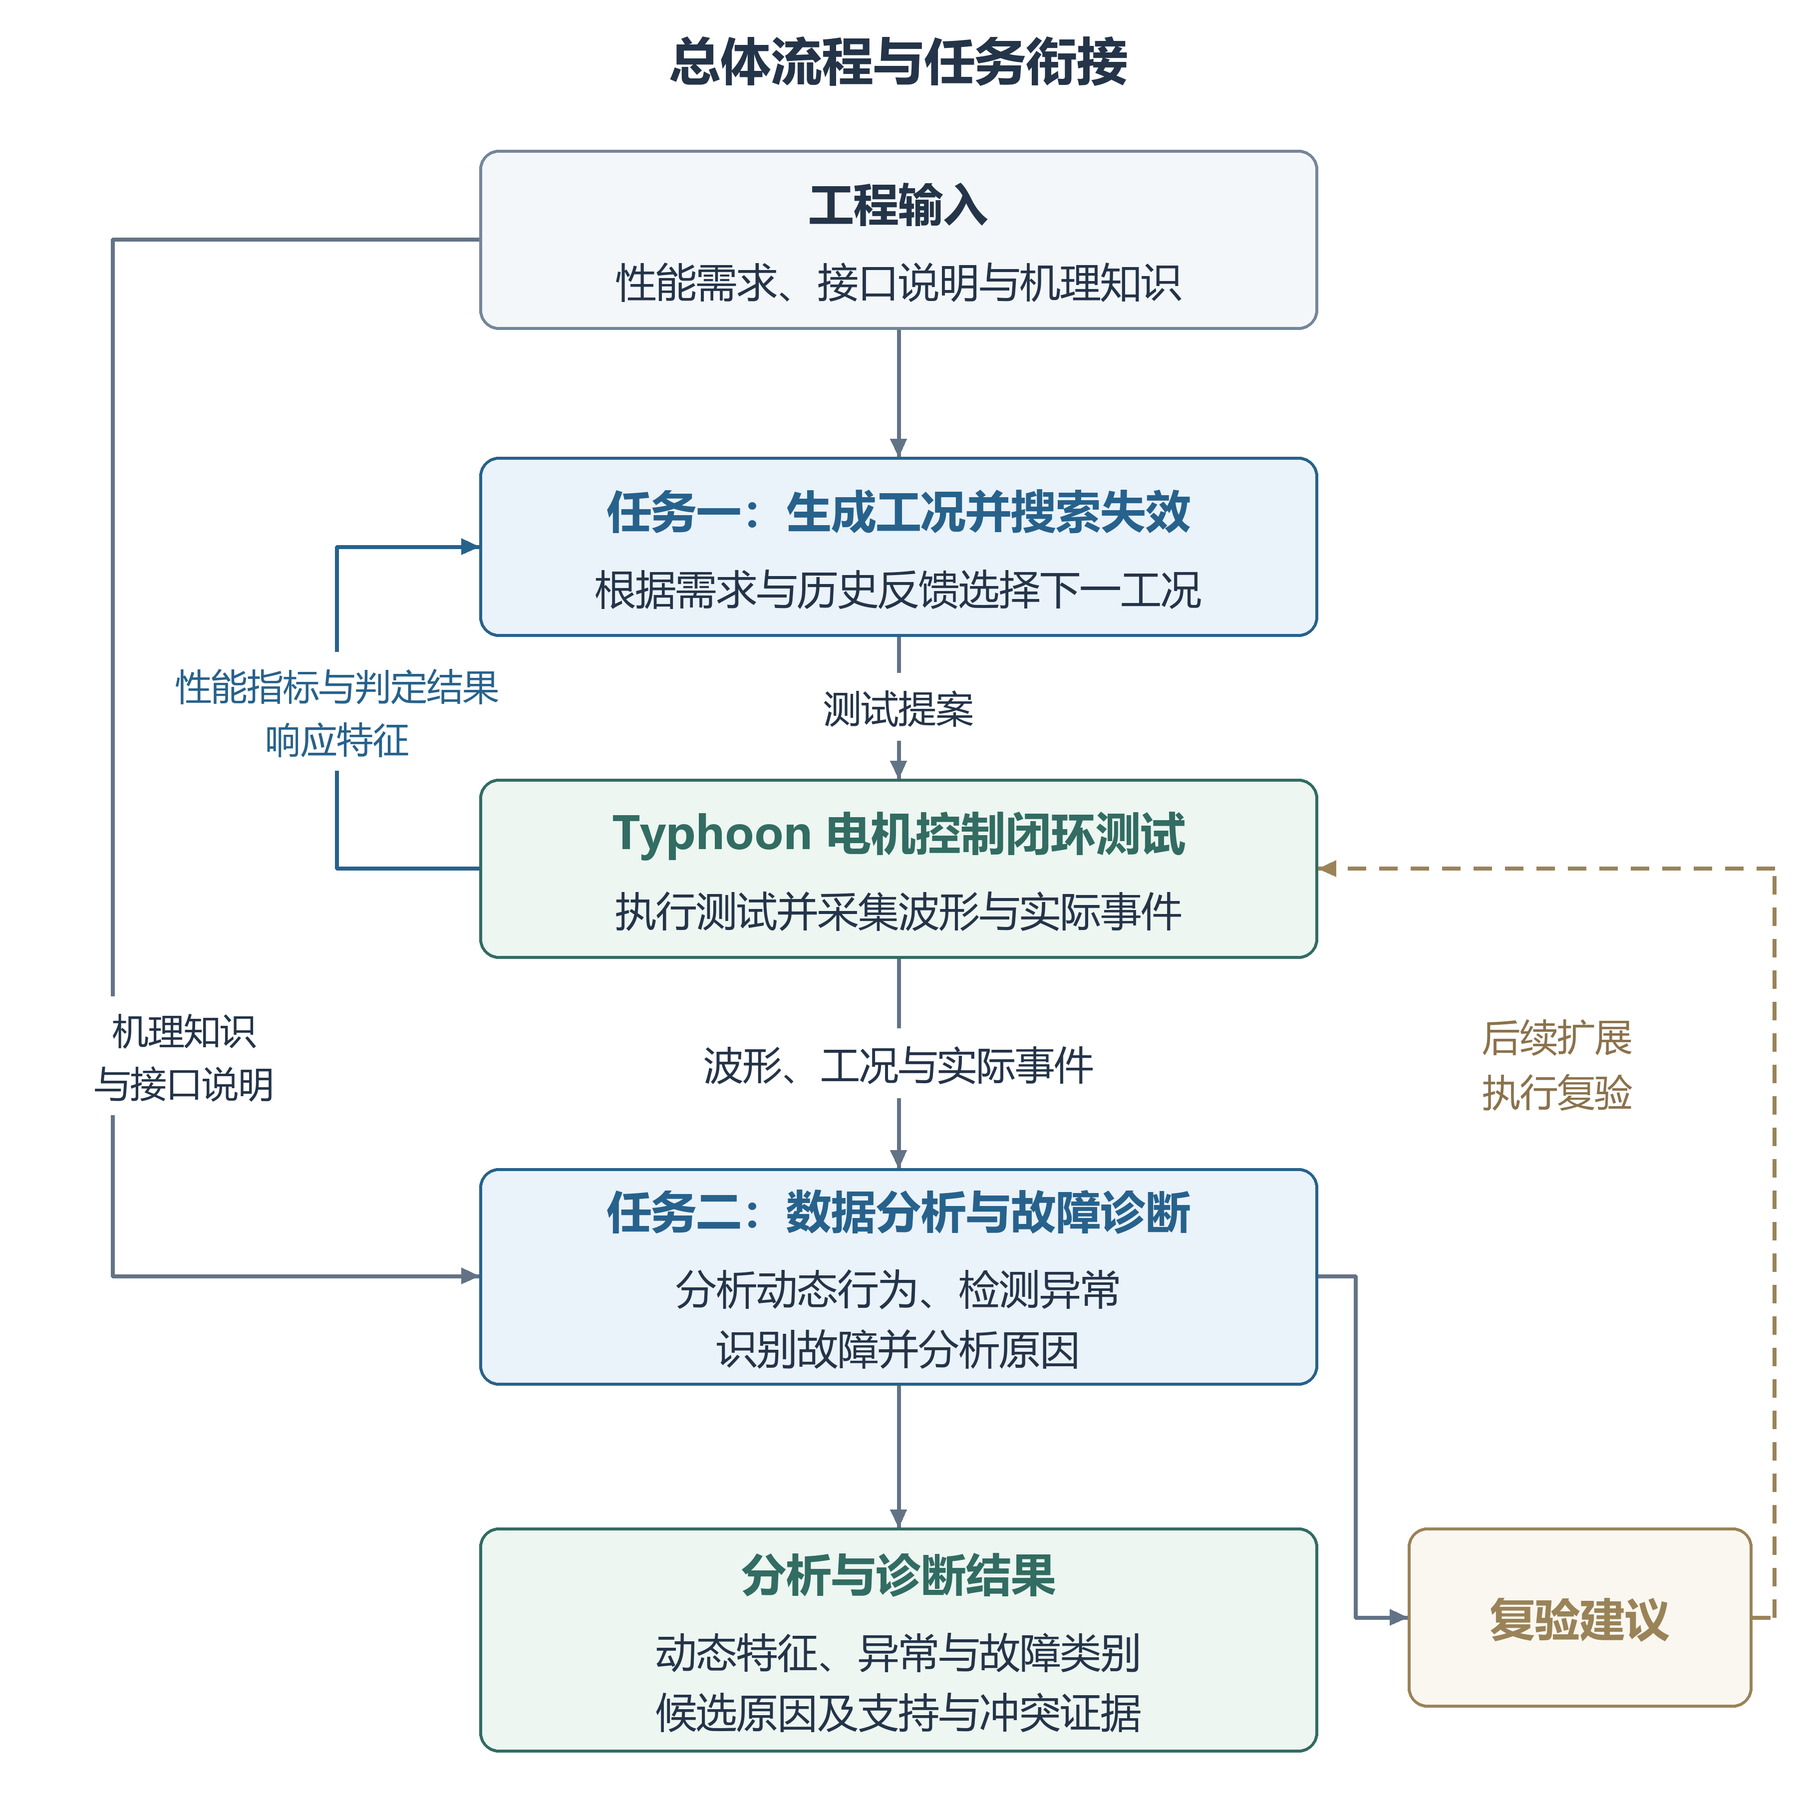
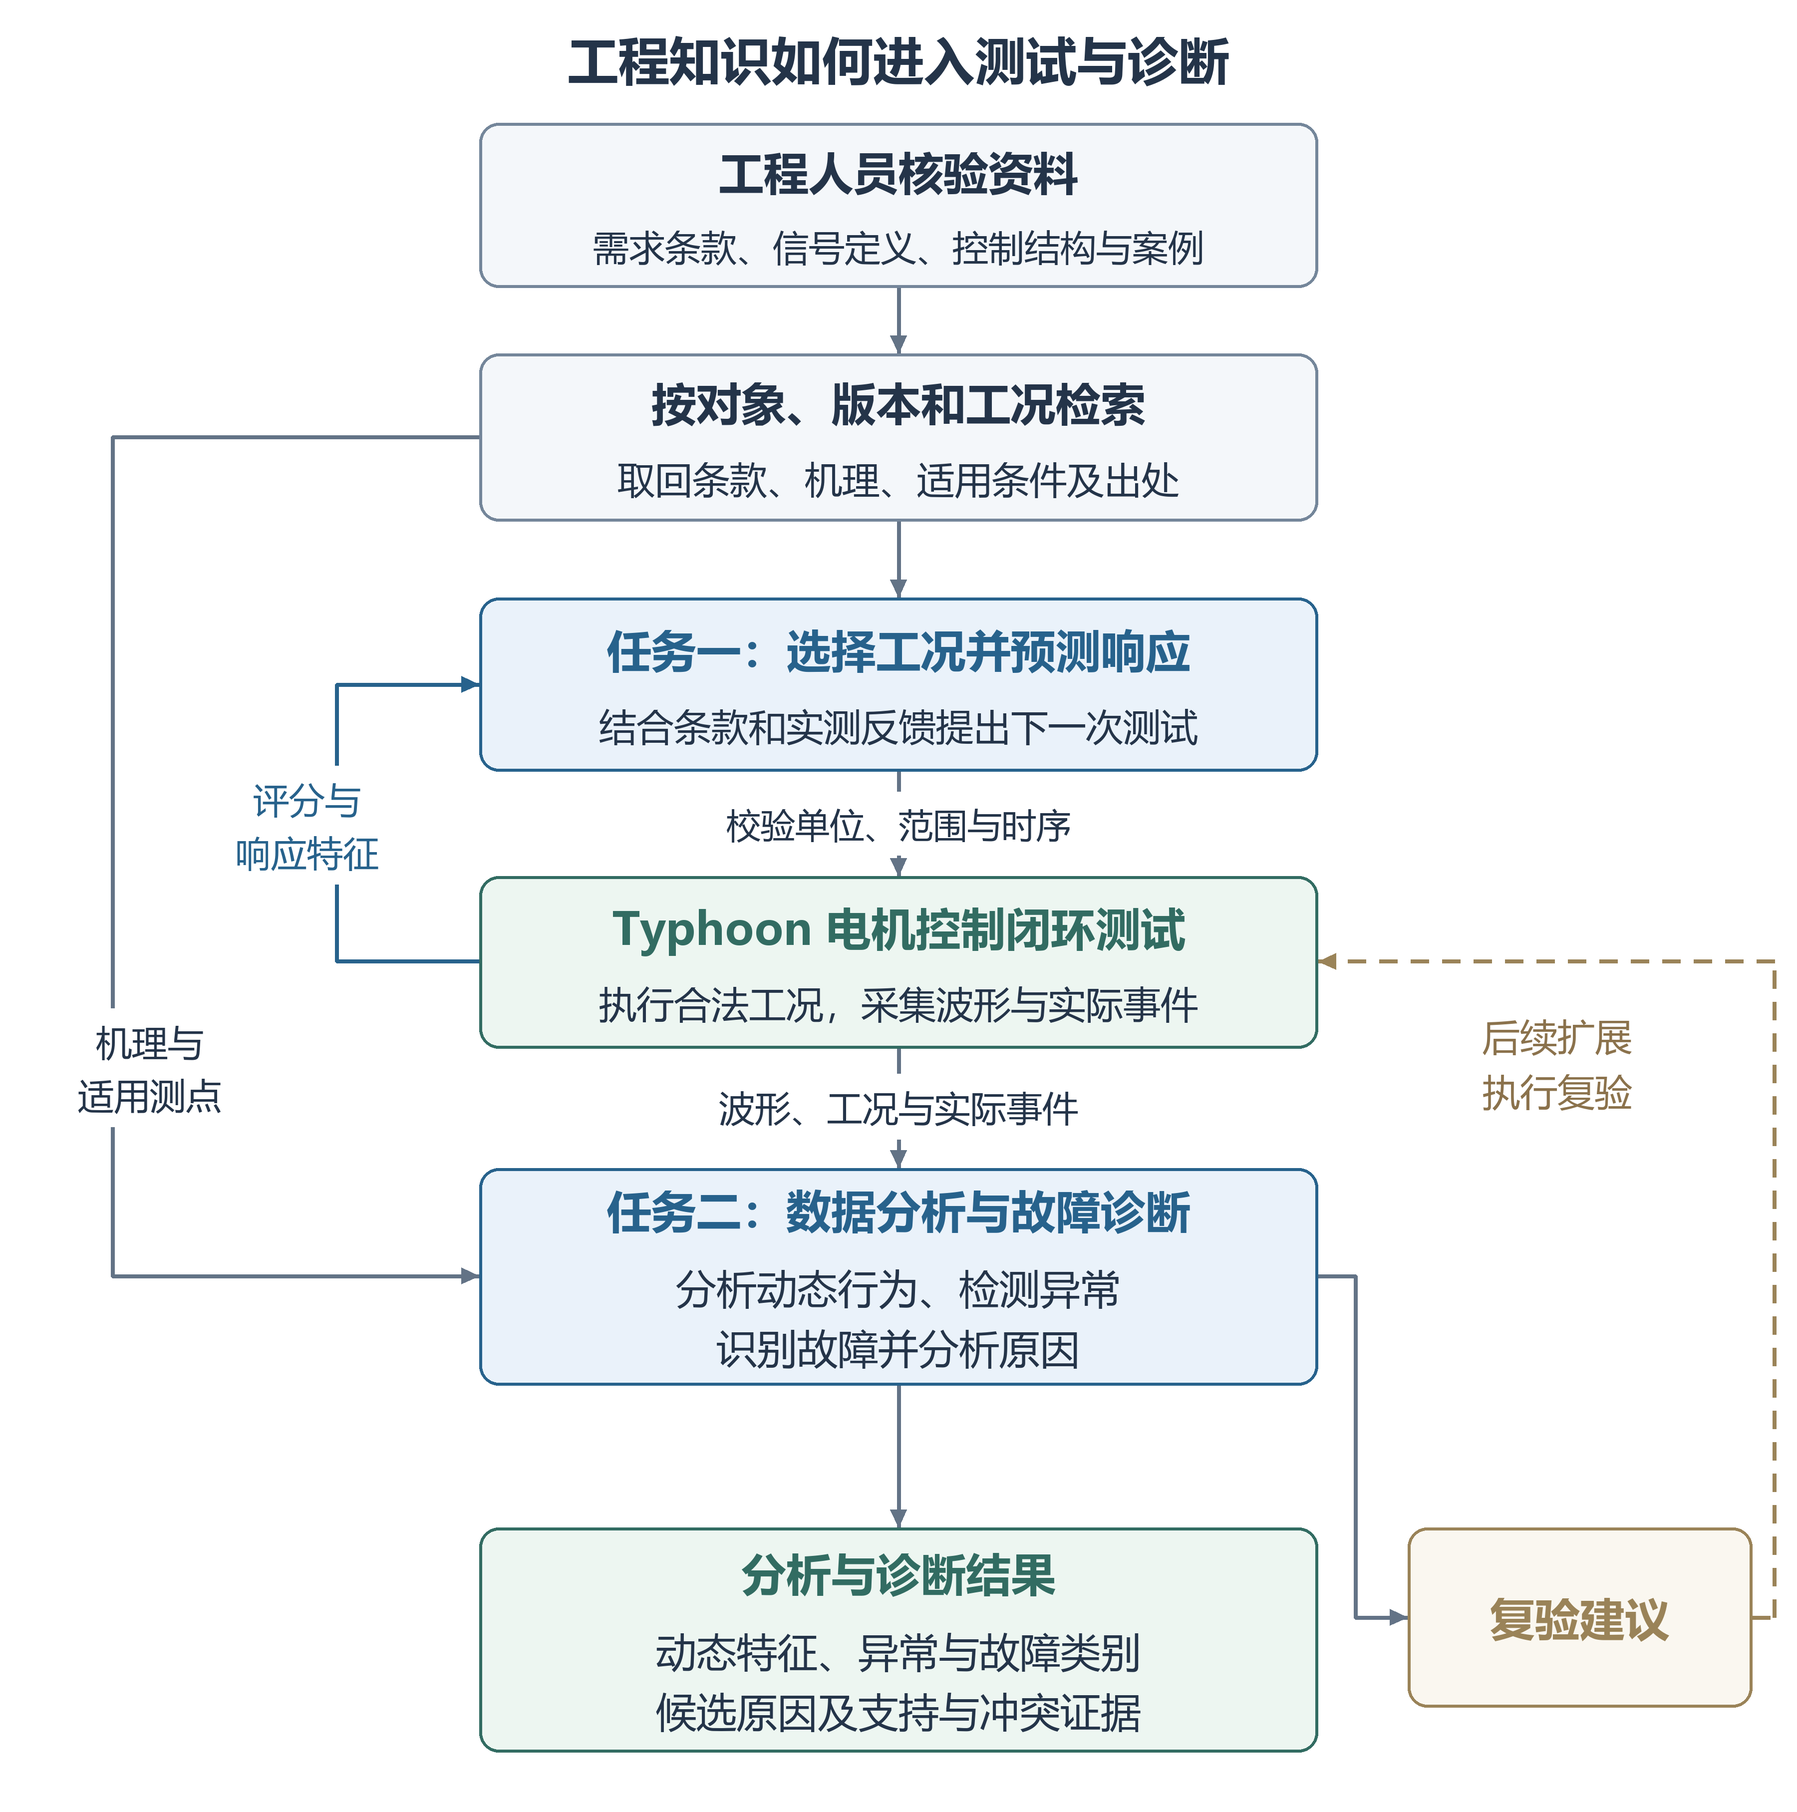
docs(research): 完善 HIL 知识增强方案与对照实验设计
- 明确工程条目的来源、版本、审核和检索方式，以及执行前的校验规则
- 设计仅给任务说明、自动检索、直接给定正确条款的对照，分别评估检索与模型应用效果
- 更新技术选型、讨论稿和执行计划，同步重绘总体流程图

diff --git a/docs/research/2026-11-11-hil-ai-selection/figures/build_figures.py b/docs/research/2026-11-11-hil-ai-selection/figures/build_figures.py
@@ -79,25 +79,27 @@ class Figure:
         return self.im
 
 def overview():
-    f=Figure('01-overall-workflow',1200,1210,'总体流程与任务衔接')
-    f.line([(600,220),(600,305)])
-    f.line([(600,425),(600,520)])
-    f.line([(600,640),(600,780)])
+    f=Figure('01-overall-workflow',1200,1210,'工程知识如何进入测试与诊断')
+    f.line([(600,192),(600,236)])
+    f.line([(600,348),(600,399)])
+    f.line([(600,515),(600,585)])
+    f.line([(600,700),(600,780)])
     f.line([(600,925),(600,1020)])
-    f.line([(320,160),(75,160),(75,852),(320,852)])
-    f.line([(320,580),(225,580),(225,365),(320,365)],BLUE)
+    f.line([(320,292),(75,292),(75,852),(320,852)])
+    f.line([(320,642),(225,642),(225,457),(320,457)],BLUE)
     f.line([(880,852),(905,852),(905,1080),(940,1080)])
-    f.line([(1170,1080),(1185,1080),(1185,580),(880,580)],'#9A8358',True)
-    f.box(320,100,560,120,'工程输入',['性能需求、接口说明与机理知识'])
-    f.box(320,305,560,120,'任务一：生成工况并搜索失效',['根据需求与历史反馈选择下一工况'],'llm')
-    f.box(320,520,560,120,'Typhoon 电机控制闭环测试',['执行测试并采集波形与实际事件'],'data')
+    f.line([(1170,1080),(1185,1080),(1185,642),(880,642)],'#9A8358',True)
+    f.box(320,82,560,110,'工程人员核验资料',['需求条款、信号定义、控制结构与案例'],size=24)
+    f.box(320,236,560,112,'按对象、版本和工况检索',['取回条款、机理、适用条件及出处'],size=25)
+    f.box(320,399,560,116,'任务一：选择工况并预测响应',['结合条款和实测反馈提出下一次测试'],'llm',25)
+    f.box(320,585,560,115,'Typhoon 电机控制闭环测试',['执行合法工况，采集波形与实际事件'],'data',25)
     f.box(320,780,560,145,'任务二：数据分析与故障诊断',['分析动态行为、检测异常','识别故障并分析原因'],'llm')
     f.box(320,1020,560,150,'分析与诊断结果',['动态特征、异常与故障类别','候选原因及支持与冲突证据'],'data')
     f.box(940,1020,230,120,'复验建议',kind='future')
-    f.text(600,472,['测试提案'],25,backing=True)
-    f.text(600,710,['波形、工况与实际事件'],26,backing=True)
-    f.text(225,475,['性能指标与判定结果','响应特征'],24,color=BLUE,backing=True)
-    f.text(123,705,['机理知识','与接口说明'],24,backing=True)
+    f.text(600,550,['校验单位、范围与时序'],23,backing=True)
+    f.text(600,739,['波形、工况与实际事件'],24,backing=True)
+    f.text(205,551,['评分与','响应特征'],24,color=BLUE,backing=True)
+    f.text(100,713,['机理与','适用测点'],24,backing=True)
     f.text(1040,710,['后续扩展','执行复验'],25,color='#8B724C',backing=True)
     return f.save()
 
@@ -156,13 +158,13 @@ if __name__=='__main__':
     for i,t in enumerate(thumbs): sheet.paste(t,(10+i*580+(560-t.width)//2,20))
     sheet.save(OUT/'preview.png')
     source=OUT.parent/'discussion-brief.md'
-    meta={'source':'../discussion-brief.md','sha256':hashlib.sha256(source.read_bytes()).hexdigest(),'date':'2026-11-13','raster_scale':S,'dpi':600,'figures':[]}
+    meta={'source':'../discussion-brief.md','sha256':hashlib.sha256(source.read_bytes()).hexdigest(),'date':'2026-11-23','raster_scale':S,'dpi':600,'figures':[]}
     for stem,im in zip(('01-overall-workflow','02-test-search-feedback','03-analysis-and-diagnosis'),imgs):
         meta['figures'].append({'name':stem,'pixels':list(im.size)})
     (OUT/'manifest.json').write_text(json.dumps(meta,ensure_ascii=False,indent=2),encoding='utf-8')
     (OUT/'README.md').write_text('''# 讨论稿流程图：Word 插图
 
-来源：2026-11-13 当前 discussion-brief.md 的三张流程图及相邻正文。
+来源：2026-11-23 修订的 discussion-brief.md 及相邻正文。总流程图展示工程审核、条目检索和执行前校验。
 
 1. 01-overall-workflow：总体流程与任务衔接。
 2. 02-test-search-feedback：任务一的测试生成与真实反馈循环。

diff --git a/docs/research/2026-11-11-hil-ai-selection/discussion-brief.md b/docs/research/2026-11-11-hil-ai-selection/discussion-brief.md
@@ -1,6 +1,6 @@
 # 面向电机 HIL 的智能测试生成与数据分析
 
-讨论稿 · 编制于 2026-11-11，修订于 2026-11-13。面向师兄、导师与工程人员，用于快速理解研究问题、大语言模型（LLM）的具体作用及首批工作。方法设计见[完整方案](technical-selection.md)，实现和复现细节见[参考附录](implementation-reference.md)，本轮文献依据与取舍见[大模型方法深化调研](../2026-11-13-llm-method-deepening/research-report.md)。
+讨论稿 · 编制于 2026-11-11，修订于 2026-11-23。供课题组与工程协作方讨论大语言模型（LLM）在电机 HIL 中承担哪些决策、需要哪些知识及如何验收。[完整方案第 1.5—1.6 节](technical-selection.md#15-知识增强的工程推理)给出知识来源、表示、审核和文献依据，实现与复现见[参考附录](implementation-reference.md)。
 
 ## 1. 研究目标与核心任务
 
@@ -19,12 +19,14 @@
 
 ```mermaid
 flowchart LR
-    K["性能需求、接口说明与机理知识"] --> A["任务一：生成工况并搜索失效"]
-    A -->|测试提案| E["Typhoon：执行电机控制闭环测试并采集数据"]
+    S["需求、接口、控制框图及专家案例"] --> K["工程审核后按对象、版本和工况检索"]
+    K --> A["任务一：引用条款生成工况"]
+    A -->|校验范围、单位与时序| E["Typhoon：执行电机控制闭环测试并采集数据"]
     E -->|性能指标、判定结果与响应特征| A
     E -->|波形、工况与实际事件| B["任务二：分析动态行为、检测异常<br/>识别故障并分析原因"]
     K --> B
     B --> O["动态特征、异常与故障类别<br/>候选原因及支持与冲突证据"]
+    O -.->|经专家复核的开发案例供下一版使用| K
     B --> R["提出复验建议"]
     R -.->|后续扩展：执行复验| E
 ```
@@ -39,6 +41,8 @@ flowchart LR
 | 已知故障、维修案例与专家经验 | 整理“机制—症状—区分证据”条目 | 测试/维修工程师，研究侧整理核验 |
 
 研究侧将上述资料整理为测试规约（测试目标、允许操作与判定规则）、信号说明和故障机理条目，经相关工程人员确认后，用于工况生成与诊断分析。物理残差指将观测量代入物理关系后得到的偏差，例如机械转矩平衡关系的偏差，其正常范围由正常运行数据标定。
+
+每条资料保留原文位置、对象、版本与生效条件。需求和接口按条款检索，范围与时序写入校验器，反馈关系整理成可检验的预测，专家案例注明结案依据。检索增强生成（RAG）先按对象和版本筛选，再按标识、别名或问题找相关条目。模型引用条目提出动作，程序独立计算和复核；开发案例经工程人员确认后进入下一版。例如，板级供电的现场确认值为空时，芯片手册中的范围不能补成样机试验值。[样机接口合同](../../../configs/tle9877_hil_contract.json)
 
 ## 2. 任务一：智能测试生成与失效搜索
 
@@ -104,7 +108,7 @@ flowchart TD
 
 例如，针对速度跌落，LLM 提出“正常负载响应”假设，并预测跌落应发生在实际负载变化之后，幅值和恢复应处于同工况正常范围。工具检查这些预测；若仍有超出正常范围的偏差，LLM 继续检查反馈偏置或执行通道异常，依据实际结构提出独立速度与反馈差异、电流或执行状态的预测。正常范围由开发数据标定，缺少对应观测时保留未决候选；单项预测相符仍需检查其他原因能否产生相同现象。
 
-首批补充查询面向已采集但尚未提供给诊断器的数据。当前尚缺 dq 电流、保护/限幅状态及独立速度反馈，需根据选定机制补充。现有观测仍不足以区分原因时，保留候选集合，说明缺失信息并提出补充观测或复验建议；新增 HIL 实验的选择与执行作为后续扩展。
+补充查询面向已采集且对该任务开放的测点。软件闭环已核验速度和 q 轴电流反馈偏置；隐藏测点时，若正常负载和反馈偏置仍与观测相容，保留候选并指出区分它们所需的观测。向实体迁移时重新确认独立速度及保护状态可否读取。[软件留出与缺测结果](../../../results/agent-tasks/20261122-101054-pmsm-method-comparison-de89/diagnosis-report.md)
 
 为检验证据选择的价值，传统对照同时包括固定诊断流程和自适应策略。后者根据候选机制的预期响应差异及调用成本选择下一查询，与 LLM 使用相同的知识、初始观测和工具权限，比较原因区分效果、有效查询次数及规则建模与人工排查投入。
 
@@ -119,13 +123,15 @@ flowchart TD
 | 假设检验与反馈修订 | 比较同一 LLM 直接诊断与先提出响应预测、再按工具结果修订；匹配知识、初始观测及预算 | 预测是否可检验、冲突后是否正确更新、原因区分及不当确定结论 |
 | 知识和反馈 | 分别减少工程知识、变量语义或历史响应，再比较结果 | 收益来自哪些信息，LLM 是否有效使用它们 |
 
+对同一问题比较三种输入：只给任务说明、自动检索、人工给定适用条款。先标注必需条款，再改一个条件，如末事件次序、单位或测点可见性，看模型能否在动作字段中正确应用。各组共用执行校验器和评分器，分别统计首次提案及筛选后结果。Brno 实测参照选择由 5/8 提升到 8/8 时，每道有解题经程序筛选后只有一个候选，改进归于规则。正式比较把整次运行及其派生窗口、结案报告一并留出。[参照动作复核](../../../results/agent-tasks/20261122-101054-pmsm-method-comparison-de89/diagnosis-report.md)
+
 诊断评价分别考察信息利用与证据选择：向各方法固定提供同等信息，比较其判断能力；在相同初始信息、工具权限和预算下允许按需查询，比较其选择查询与分析工具的能力。正式评价使用独立运行数据，预先固定场景、LLM 版本、提示和知识库，并由评价器保管故障真值。失败调用与人工审核计入总成本。
 
 给定故障区间的分类效果与从完整波形开始的诊断效果分别检查，同时关注误报、漏检、超时和不当确定结论。充分比较后的无稳定增益结果，也能帮助保留更低成本的传统方法并明确适用范围。
 
 ## 5. 实施路径与资源安排
 
-实施首先复用现有电机仿真模型、速度/负载事件、采集和分析能力，接入一个可用的 LLM，分别完成搜索反馈与诊断更新实例。两项任务按各自输入条件推进：测试搜索先检查提案、执行和真实评分能否连续反馈；数据分析先用正常数据联调工具，再通过一个真实影响电机控制闭环的故障及正常对照检查诊断更新。原型开发与正式场景准备交替推进，主要阶段如下。
+已有软件实例覆盖减速加载搜索和反馈偏置诊断。下一批先整理这两组任务的条款、边界和可用测点，独立复核人员封存留出问题与预期动作。资料命中不足时比较检索器，正确条款已给定而动作仍出错时再比较模型；跨部件关系反复漏检时试小型图谱。新增标注、专家复核、知识更新和推理分别记录成本。[具体分工与验收](execution-plan.md)
 
 | 阶段 | 主要工作 | 阶段成果 |
 |---|---|---|

diff --git a/docs/research/2026-11-11-hil-ai-selection/execution-plan.md b/docs/research/2026-11-11-hil-ai-selection/execution-plan.md
@@ -29,6 +29,8 @@
 
 ## 验收口径
 
+知识增强实验先复用减速加载与同症速度跌落两组任务。测试和控制人员核对规约、单位和适用版本，模型人员核对实际事件与可用测点，研究侧形成带出处的条款表、机理关系与可执行边界检查。独立复核人员封存留出问题、可接受条款和预期动作。三类输入为仅给任务说明、自动取回条款、直接给定正确条款；各组共用校验器。交付逐题检索与首次动作、工具拦截或修订、最终评分和人工工时，按错误所在环节决定扩展检索、补测点或调整模型。[完整比较设计](technical-selection.md#42-数据划分与公平比较)
+
 - 搜索沿用同一恢复评分；找到需求违反样本后，进一步取得邻近满足/违反点和复验才讨论局部边界。
 - 首批少量连续运行验证流程与反馈使用，保留与简单基线的开发性对照；正式方法收益依赖后续独立重复。
 - 正常参照按模型、参数、工况与运行阶段组织；确定性复跑用于复现核对。数据划分以完整运行或配置族为单位。

diff --git a/docs/research/2026-11-11-hil-ai-selection/figures/README.md b/docs/research/2026-11-11-hil-ai-selection/figures/README.md
@@ -1,6 +1,6 @@
 # 讨论稿流程图：Word 插图
 
-来源：2026-11-13 当前 discussion-brief.md 的三张流程图及相邻正文。
+来源：2026-11-23 修订的 discussion-brief.md 及相邻正文。总流程图展示工程审核、条目检索和执行前校验。
 
 1. 01-overall-workflow：总体流程与任务衔接。
 2. 02-test-search-feedback：任务一的测试生成与真实反馈循环。
